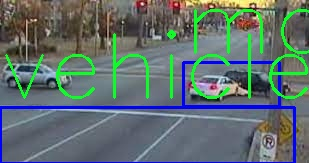
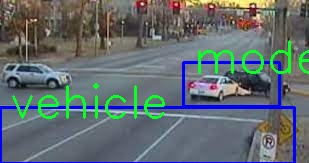
added app folder

Changed region(s): [[0.0, 0.184, 0.5825, 0.7362], [0.6117, 0.0307, 1.0, 0.6135], [0.5243, 0.184, 0.5825, 0.2454]]

diff --git a/app/templates/index.html b/app/templates/index.html
@@ -12,10 +12,11 @@
         <!-- Google fonts-->
         <link rel="preconnect" href="https://fonts.gstatic.com" />
         <link href="https://fonts.googleapis.com/css2?family=Tinos:ital,wght@0,400;0,700;1,400;1,700&amp;display=swap" rel="stylesheet" />
-        <link href="https://fonts.googleapis.com/css2?family=DM+Sans:ital,wght@0,400;0,500;0,700;1,400;1,500;1,700&amp;display=swap" rel="stylesheet" />
-        <!-- Core theme CSS (includes Bootstrap)-->
+        <link href="https://fonts.googleapis.com/css2?family=DM+Sans:ital,wght@0,400;0,500;0,700;1,400;1,500;1,700&amp;display=swap" rel="stylesheet" />  
+<!--         <link href="css/styles.css" rel="stylesheet" /> -->
         <link href="{{url_for('static', filename='css/styles.css')}}" rel="stylesheet" />
-    </head>
+    
+        
     <body>
          <!-- Background Video--> <!-- Masthead-->
       
@@ -97,9 +98,9 @@
              
             </div>
             <div class="col justify-content-center align-items-center text-center">
-                    <h3 class="section-title display-4">Recognition Results</h3>
-                    <h3 class="we-found btn-text display-4">We found <strong><span style='text-transform: capitalize;'>{{labels}}!</span></strong></h3>
-
+                    <h3 class="section-title display-4" style="color:white;">Recognition Results</h3>
+                    <h3 class="we-found btn-text display-4" style="color:white;">We found <strong><span style='text-transform: capitalize;'>{{labels}}!</span></strong></h3>
+                    
                     {% if labels == 'No cars or accidents' %}
                     <div class='lead'>We missed? See why below.</div>
                     {% else %}
@@ -111,16 +112,20 @@
                     <img align='center' class="mbr-figure" src="{{ url_for('static', filename='uploads/' + filename)}}" width=50% height=50%>
                 </div>
     
-    
+    <div align='center'class='main video holder'>
+      <div class='video-holder'>
+          <img src="{{ '/video_feed_george_washington_bridge' }}" width="300" height="400">
+      </div>
+        
+      <div class='video-holder'>
+        <img src="{{ '/video_feed_jackson_hole' }}" width="300" height="400">
+      </div>
+    </div>
             <h1 class="white_h11">About Us</h1>
             <p class="white_h1">
               Annually 1.35 million people fall victim to fatal car accidents, one of the leading reasons behind the high mortality rate of car crashes is the time it takes for an ambulance to be dispatched and stabalize the patient. The difference between 7 and 12 minutes can make as much as a ~45% difference in mortality rate. One of the best methods to increase car crash survivability would be to reduce ambulance dispatch time. Through meticulous hours of processing over 18 thousand images and weeks of work cumulated we have arrived at (name). (Name) uses Yolov5, an object detection AI in order to accurately spot vehicles that have been posed in both minor accidents and mortal danger in real time utilizing street cam footage and is capable of forwarding it to the correct outlets to hasten ambulance response times to make the difference.
     </p>
-  </body>
- 
-  
-  
-  <body>
+    
    <!-- Tab links -->
 <div class="tab">
   <button class="tablinks" onclick="openAI(event, 'confusion matrix')">Confusion Matrix</button>
@@ -130,9 +135,12 @@
 </div>
 
 <!-- Tab content -->
-<div id="confusion matrix" class="tabcontent">
+<div id="confusion matrix" class="tabcontent"> 
   <h1 class="white_h11">Confusion Matrix</h1>
-  <p class="white_h1">Our confusion matrix below displays our AI's accuracy, a higher percentage of corresponding classes exhibits characteristics of an accurate AI based off of the validation and test sets fed into it</p>
+  <div class="DivCenter">
+  <p class="white_h1">For an AI its critical that it remains accurate across several environments and is capable of handling different scenarios both in and out of our dataset. A confusion matrix lets us monitor our accuracy based solely upon the images we fed into our dataset. Our confusion matrix below displays our AI's accuracy, a higher percentage of corresponding classes exhibits characteristics of an accurate AI based off of the validation and test sets fed into it</p>
+  </div>
+  <p class="space"></p>
   <img src="{{url_for('static', filename='assets/confusion_matrix_(10).png')}}" alt="confusion matrix"  style="width:416px;height:416px;" class="centerImage">
 </div>
 
@@ -144,8 +152,13 @@
 </div>
 
 <div id="real world intergration" class="tabcontent">
-  <h3>Real World Integration</h3>
-  <p>###PLACEHOLDER###</p>
+  <h1 class="white_h11">Real world intergration</h1>
+  <p
+     class ='white_h1'>
+    hello_world
+  </p>
+     
+  /p>
 </div>
 
 <div id="issues we ran into" class="tabcontent">
@@ -178,7 +191,7 @@ function openAI(evt, descr) {
 }</script>
   </body>
 
-<div>
+<div style='text-align:center'>
 
   <div class="main2">
         <div align='center' class="profile-card">

diff --git a/app/static/css/styles.css b/app/static/css/styles.css
@@ -18,7 +18,6 @@
   --bs-red: #dc3545;
   --bs-orange: #fd7e14;
   --bs-yellow: #ffc107;
-  --bs-green: #198754;
   --bs-teal: #20c997;
   --bs-cyan: #0dcaf0;
   --bs-white: #fff;
@@ -492,6 +491,7 @@ progress {
 .lead {
   font-size: 1.25rem;
   font-weight: 300;
+  color: #F1F6F6;
 }
 
 .display-1 {
@@ -11486,6 +11486,17 @@ video.bg-video {
 }
 .white_h1{
     color: white;
+    text-align: center;
+}
+.space{
+  padding-bottom: 100px;
+}
+.white_h11{
+  color: #F1F6F6
+  text-align: center;
+  padding-top: 100px;
+  
+  
 }
 .centerTeam{
   float: left;
@@ -11525,7 +11536,7 @@ video.bg-video {
 .tab button:hover {
   background-color: #ddd;
 }
-
+centerImage
 /* Create an active/current tablink class */
 .tab button.active {
   background-color: #ccc;
@@ -11535,112 +11546,114 @@ video.bg-video {
 .tabcontent {
   display: none;
   padding: 6px 12px;
-  border: 1px solid #ccc;
   border-top: none;
-  color: #F1F6F6;
-}
-.white_h1{
-  padding-top: 100px;
+  color: #000000;
   text-align: center;
 }
+.white_h1{
+  padding-top: 60px;
+  text-align: center;
+  color: #F1F6F6;
+  max-width: 1200px;
+}
+.DivCenter {
+  position: absolute;
+  left: 50%;
+  top: 50%;
+  transform: translate(-50%, -50%);
+  border: 5px solid #FFFF00;
+  padding: 10px;
+}
 .space{
-  padding-bottom: 100px;
+  padding-bottom: 50px;
 }
 .white_h11{
   color: #F1F6F6
 }
-* {
-  margin: 0;
-  padding: 0;
-  box-sizing: border-box;
-  font-family: Exo;
-}
+
 @font-face {
   font-family: Exo;
   src: url(./fonts/Exo2.0-Medium.otf);
 }
 .main1{
-  
   height: 100vh;
-  display: inline-block;
-  
+  display: flex;
   float: left;
-  width: 25vw;
+  width:25%;
   justify-content: center;
   align-items: center;
-  background-color: #0c52a1;
+  background-color: #000000;
 }
 .main2{
   
   height: 100vh;
   display: flex;
   float: left;
-  width: 25vw;
+  width:25%;
   justify-content: center;
   align-items: center;
-  background-color: #0c52a1;
+  background-color: #000000;
 }
 .main3{
   
   height: 100vh;
   float: left;
-  width: 25vw;
+  width:25%;
    
   display: flex;
   justify-content: center;
   align-items: center;
-  background-color: #0c52a1;
+  background-color: #000000;
 }
 .main4{
   
   height: 100vh;
   display: flex;
   float: left;
-  width: 25vw;
+  width:25%;
     
   justify-content: center;
   align-items: center;
-  background-color: #0c52a1;
+  background-color: #000000;
 }
 .main5{
-  width: 25vw;
-  height: 100vh;
+ 
   display: flex;
   float: left;
-  
- 
+    width: 33.3%;
+  height: 10vh;
   justify-content: center;
   align-items: center;
-  background-color: #0c52a1;
+  background-color: #000000;
 }
 .main6{
-  width: 25vw;
-  height: 100vh;
+  
+  
   display: flex;
   float: left;
-/*     width: 33.3%; */
-  
+    width: 33.3%;
+  height: 10vh;
   justify-content: center;
   align-items: center;
-  background-color: #0c52a1;
+  background-color: #000000;
 }
 .main7{
-  width: 25vw;
-  height: 100vh;
+ 
+  
   display: flex;
   float: left;
-/*     width: 33.3%; */
-  
+    width: 33.3%;
+  height: 10vh;
   justify-content: center;
   align-items: center;
-  background-color: #0c52a1;
+  background-color: #000000;
 
 }
 .profile-card{
   position: relative;
-  width: 70%;
-  height: 50%;
-  background: #0c52a1;
+  width: 220px;
+  height: 50px;
+  background: #000000;
   padding: 30px;
   border-radius: 50%;
   transition: .6s;
@@ -11679,11 +11692,13 @@ video.bg-video {
   opacity: 1;
 }
 .caption h3{
-  font-family:"Times New Roman", Times, serif; font-size: 25px;
+  font-family:Georgia;
+  font-weight:bold;
   top:-20px;
 }
 .caption p{
-  font-size: 15px;
+  font-size: 14px;
+  line-height:1;
   color: #0c52a1;
   margin: 2px 0 9px 0;
   
@@ -11717,8 +11732,8 @@ label {
 
 .flip-card {
     position: relative;
-    width: 70%;
-    height: 50;
+    width: 100%;
+    height: 100%;
     transform-style: preserve-3d;
     transition: all 0.5s ease-in-out;
     z-index: 1;
@@ -11727,8 +11742,8 @@ label {
 .flip-card .front,
 .flip-card .back {
     position: absolute;
-    width: 70%;
-    height: 50;
+    width: 100%;
+    height: 100%;
     border-radius: 50%;
     text-align: center;
     background: #fff;

diff --git a/app/main.py b/app/main.py
@@ -126,10 +126,10 @@ def uploaded_file(filename):
                     format_confidences.append(str(round(percent*100)) + '%')
                 
 
-
+                print(label[0], format_confidences)
 
                 cv2.rectangle(ret_image, (xmin, ymin), (xmax, ymax),color=(255,0,0),thickness=2)
-                cv2.putText(ret_image, str(label[0]), (xmin, ymin-10), cv2.FONT_HERSHEY_SIMPLEX, 3, (36,255,12), thickness=2)
+                cv2.putText(ret_image, str(label[0] ), (xmin+10, ymin+10), cv2.FONT_HERSHEY_SIMPLEX, 1.5, (36,255,12), thickness=2)
             
         else:
             # return the 
@@ -142,6 +142,7 @@ def uploaded_file(filename):
         # https://stackoverflow.com/questions/56108183/python-opencv-cv2-drawing-rectangle-with-tex
 
     format_confidences = and_syntax(format_confidences)
+    
     save_path = os.path.join(here,  app.config['UPLOAD_FOLDER'], str(filename[:-4] + "_annotated.jpg"))
     
     cv2.imwrite(save_path, ret_image)
@@ -209,11 +210,13 @@ def target_function(video):
                     label = list(i[0]['name'])
                     label_for_return.append(str(label[0]))
                     confidences = str(round(list(i[0]['confidence'])[0]) * 100) + '%'
+                    print(str(label[0] + confidences))
                     # for percent in confidences:
                     #     format_confidences.append(str(round(percent*100)) + '%')
                     print("Displaying predictions")
                     cv2.rectangle(ret_image, (xmin, ymin), (xmax, ymax),color=(255,0,0))
-                    cv2.putText(ret_image, str(label[0] + confidences), (xmin, ymin-10), cv2.FONT_HERSHEY_SIMPLEX, .3, (36,255,12), 1)
+                    # alter the text to fit within the bounding box
+                    cv2.putText(ret_image, str(label[0] + confidences), (xmin+10, ymin+10), cv2.FONT_HERSHEY_SIMPLEX, .3, (36,255,12), 1)
             else:
                 pass
 
